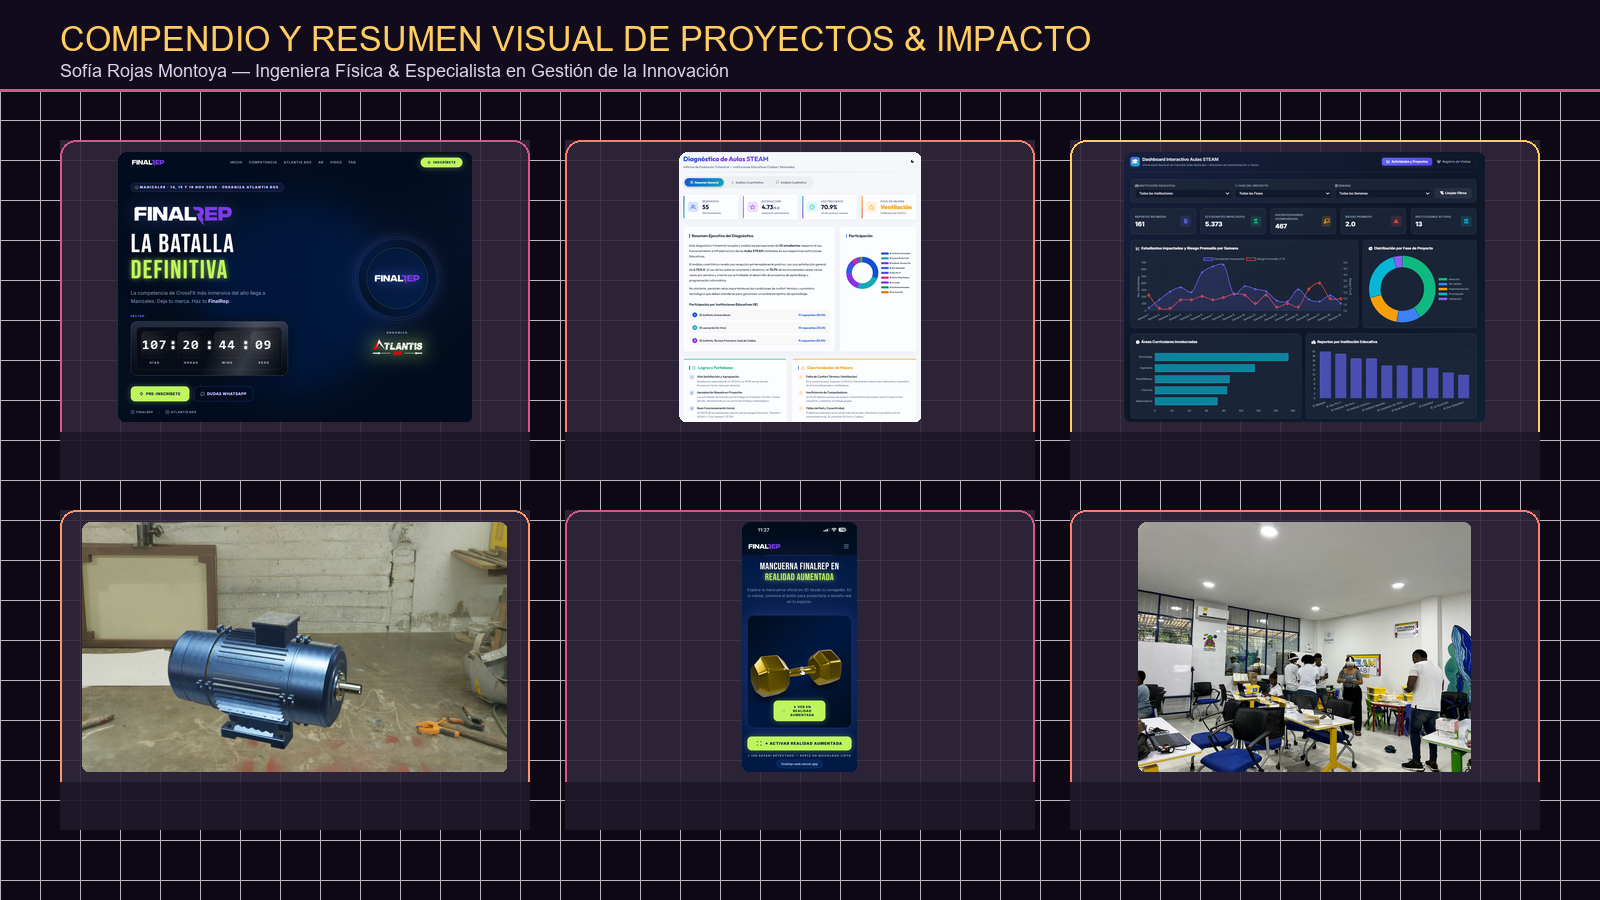
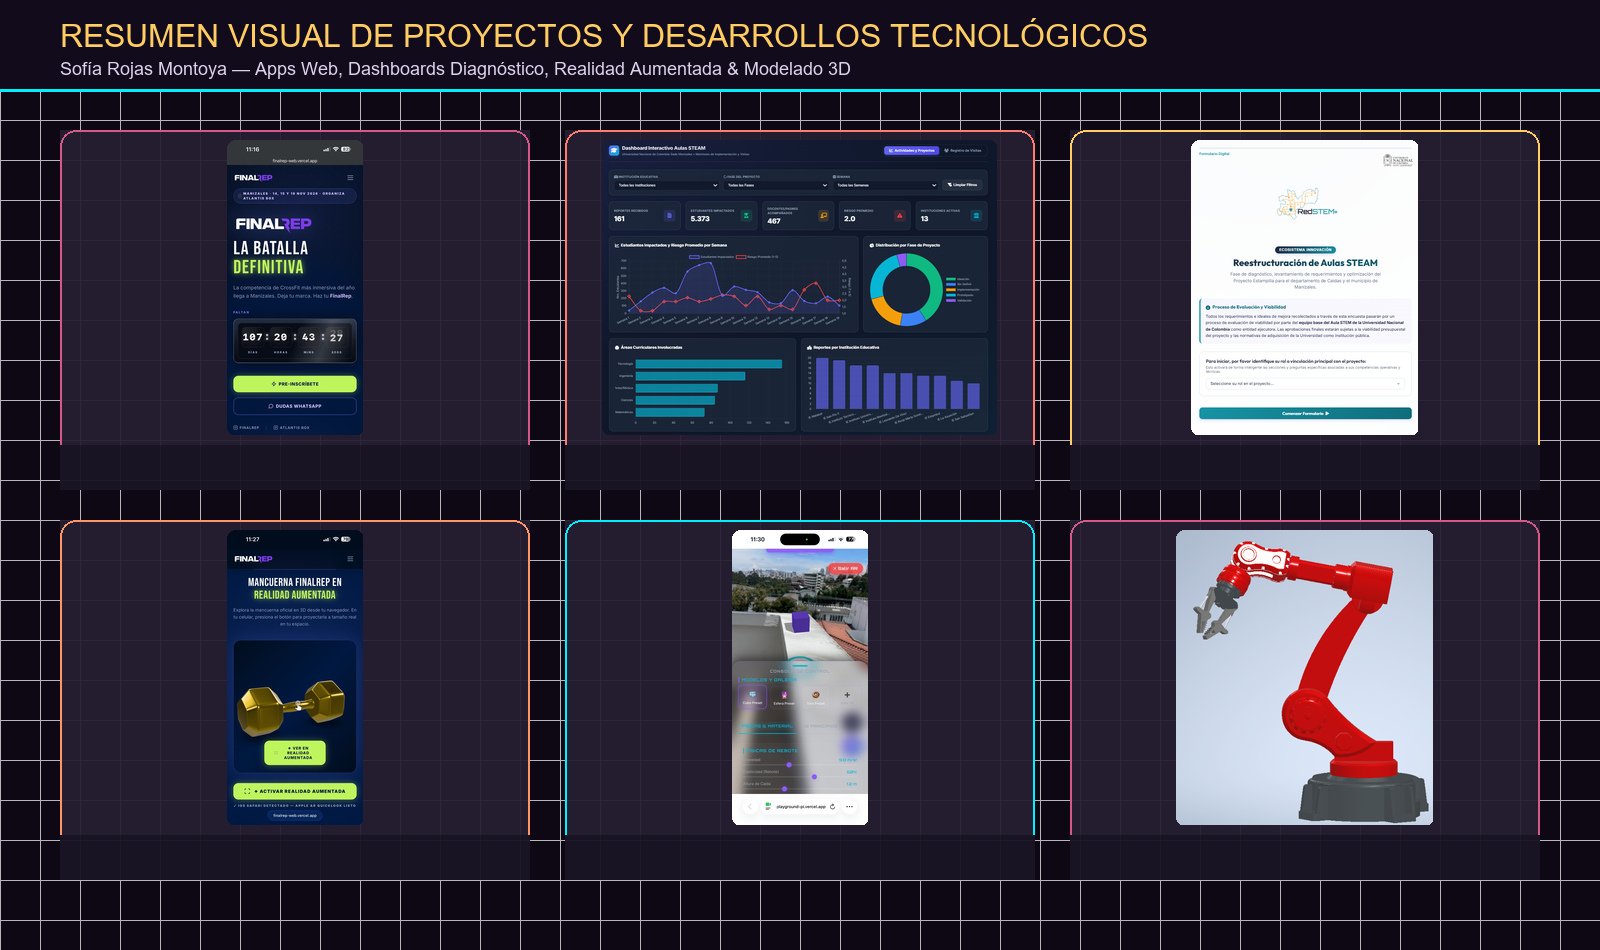
Update portfolio projects with exact user context, image mappings, and regenerated executive summary graphic

diff --git a/index.html b/index.html
@@ -726,6 +726,7 @@
     
     <!-- Personal Projects Portfolio Section (Game Dev Studio 04 Style) -->
         <!-- Personal Projects Portfolio Section (Alien UFO Spaceship Hologram Emitter) -->
+        <!-- Personal Projects Portfolio Section (Alien UFO Spaceship Projector) -->
     <section id="proyectos-personales" class="section-padding ufo-portfolio-section">
       <div class="container">
         <!-- Section Header -->
@@ -733,7 +734,7 @@
           <span class="ufo-section-tag"><i data-lucide="orbit"></i> DESARROLLOS Y PROYECTOS 3D</span>
           <h2 class="section-title ufo-title">PORTAFOLIO DE PROYECTOS</h2>
           <p style="color: var(--text-secondary); max-width: 750px; margin: 12px auto 0 auto; font-size: 0.98rem;">
-            Soluciones tecnológicas avanzadas, aplicaciones web interactivas, simuladores 3D/AR y sistemas analíticos proyectados en alta resolución.
+            Soluciones tecnológicas avanzadas, aplicaciones web interactivas, plataformas de realidad aumentada y sistemas de modelado 3D proyectados en detalle.
           </p>
           <div class="section-divider"></div>
         </div>
@@ -768,175 +769,175 @@
         <div class="portfolio-filters ufo-filters" style="margin-bottom: 45px;">
           <button class="filter-btn active" data-project-filter="all">_TODOS LOS PROYECTOS</button>
           <button class="filter-btn" data-project-filter="webapp">_APLICACIONES WEB</button>
-          <button class="filter-btn" data-project-filter="simulacion">_SIMULADORES 3D / AR</button>
+          <button class="filter-btn" data-project-filter="simulacion">_REALIDAD AUMENTADA Y 3D</button>
           <button class="filter-btn" data-project-filter="analitica">_DASHBOARDS Y DATOS</button>
         </div>
 
         <!-- Hologram Projects Grid (2-Column Layout) -->
         <div class="hologram-projects-grid">
           
-          <!-- Card 1: FinalRep Fitness App -->
+          <!-- Proyecto 1: App Web FinalRep (Competencia CrossFit) -->
           <div class="hologram-project-card" data-project-cat="webapp">
             <div class="hologram-media-frame">
               <span class="hologram-hud-tag">PROYECTO _01</span>
-              <img src="Aplicaciones WEB/FinalRep_1.png" alt="FinalRep Web App" class="hologram-img" id="holo-img-1">
+              <img src="Aplicaciones WEB/FinalRep Celular.jpeg" alt="App Web FinalRep - Competencia CrossFit" class="hologram-img" id="holo-img-1">
               <div class="hologram-scanlines"></div>
             </div>
 
             <!-- Thumbnail Device Switcher -->
             <div class="hologram-thumb-switcher">
-              <button class="holo-thumb-btn active" onclick="switchHoloImg('holo-img-1', 'Aplicaciones WEB/FinalRep_1.png', this)">PC ESCRITORIO</button>
-              <button class="holo-thumb-btn" onclick="switchHoloImg('holo-img-1', 'Aplicaciones WEB/FinalRep Celular.jpeg', this)">CELULAR MÓVIL</button>
-              <button class="holo-thumb-btn" onclick="switchHoloImg('holo-img-1', 'Aplicaciones WEB/FinalRep_2.png', this)">ANALÍTICA IA</button>
+              <button class="holo-thumb-btn active" onclick="switchHoloImg('holo-img-1', 'Aplicaciones WEB/FinalRep Celular.jpeg', this)">FINALREP MÓVIL</button>
+              <button class="holo-thumb-btn" onclick="switchHoloImg('holo-img-1', 'Aplicaciones WEB/FinalRep_1.png', this)">PANEL WEB 1</button>
+              <button class="holo-thumb-btn" onclick="switchHoloImg('holo-img-1', 'Aplicaciones WEB/FinalRep_2.png', this)">PANEL WEB 2</button>
             </div>
 
             <div class="hologram-card-body">
-              <h3 class="hologram-card-title">FinalRep — Platform Fitness & AI</h3>
+              <h3 class="hologram-card-title">Proyecto App Web FinalRep</h3>
               <p class="hologram-card-desc">
-                Plataforma interactiva de seguimiento de ejercicios en tiempo real, rutinas guiadas, contador inteligente de repeticiones y paneles gráficos de progreso físico.
+                Aplicación web desarrollada para promocionar una competencia de CrossFit y realizar el llamado a la inscripción de atletas y participantes con seguimiento de rendimiento en tiempo real.
               </p>
               <div class="hologram-tech-stack">
-                <span class="holo-tech-chip">JavaScript ES6+</span>
-                <span class="holo-tech-chip">PWA</span>
-                <span class="holo-tech-chip">Chart.js</span>
-                <span class="holo-tech-chip">Glassmorphism</span>
+                <span class="holo-tech-chip">Competencia CrossFit</span>
+                <span class="holo-tech-chip">Llamado Inscripción</span>
+                <span class="holo-tech-chip">App Web Interactiva</span>
+                <span class="holo-tech-chip">PWA & JS</span>
               </div>
             </div>
           </div>
 
-          <!-- Card 2: Dashboard Diagnóstico -->
+          <!-- Proyecto 2: Dashboards Interactivos -->
           <div class="hologram-project-card" data-project-cat="analitica">
             <div class="hologram-media-frame">
               <span class="hologram-hud-tag">PROYECTO _02</span>
-              <img src="Aplicaciones WEB/Dashbboard Diagnostico.png" alt="Dashboard Diagnóstico" class="hologram-img" id="holo-img-2">
+              <img src="Aplicaciones WEB/Dashboard Aulas.png" alt="Dashboards Interactivos de Diagnóstico" class="hologram-img" id="holo-img-2">
               <div class="hologram-scanlines"></div>
             </div>
 
             <div class="hologram-thumb-switcher">
-              <button class="holo-thumb-btn active" onclick="switchHoloImg('holo-img-2', 'Aplicaciones WEB/Dashbboard Diagnostico.png', this)">PANEL DATOS</button>
-              <button class="holo-thumb-btn" onclick="switchHoloImg('holo-img-2', 'Aplicaciones WEB/Formulario interactivo.png', this)">FORMULARIO</button>
+              <button class="holo-thumb-btn active" onclick="switchHoloImg('holo-img-2', 'Aplicaciones WEB/Dashboard Aulas.png', this)">DASHBOARD AULAS</button>
+              <button class="holo-thumb-btn" onclick="switchHoloImg('holo-img-2', 'Aplicaciones WEB/Dashbboard Diagnostico.png', this)">DASHBOARD DIAGNÓSTICO</button>
             </div>
 
             <div class="hologram-card-body">
-              <h3 class="hologram-card-title">Dashboard Diagnóstico de Territorio</h3>
+              <h3 class="hologram-card-title">Dashboards Interactivos y Dinámicos</h3>
               <p class="hologram-card-desc">
-                Sistema de inteligencia de negocios y analítica visual para la evaluación de necesidades tecnológicas, brechas educativas y toma de decisiones en 15 municipios.
+                Dashboards interactivos y dinámicos realizados a partir de la recolección de información como diagnóstico integral de proyectos tecnológicos y educativos.
               </p>
               <div class="hologram-tech-stack">
-                <span class="holo-tech-chip">Python</span>
-                <span class="holo-tech-chip">Pandas</span>
-                <span class="holo-tech-chip">Data Visualization</span>
-                <span class="holo-tech-chip">FastAPI</span>
+                <span class="holo-tech-chip">Analítica Interactiva</span>
+                <span class="holo-tech-chip">Diagnóstico Proyectos</span>
+                <span class="holo-tech-chip">Visualización Datos</span>
+                <span class="holo-tech-chip">Python & Data</span>
               </div>
             </div>
           </div>
 
-          <!-- Card 3: Dashboard Aulas STEAM -->
-          <div class="hologram-project-card" data-project-cat="analitica">
+          <!-- Proyecto 3: Formulario Interactivo Web -->
+          <div class="hologram-project-card" data-project-cat="webapp">
             <div class="hologram-media-frame">
               <span class="hologram-hud-tag">PROYECTO _03</span>
-              <img src="Aplicaciones WEB/Dashboard Aulas.png" alt="Dashboard Aulas STEAM" class="hologram-img" id="holo-img-3">
+              <img src="Aplicaciones WEB/Formulario interactivo.png" alt="Formulario Interactivo Web" class="hologram-img" id="holo-img-3">
               <div class="hologram-scanlines"></div>
             </div>
 
             <div class="hologram-thumb-switcher">
-              <button class="holo-thumb-btn active" onclick="switchHoloImg('holo-img-3', 'Aplicaciones WEB/Dashboard Aulas.png', this)">MONITOREO</button>
-              <button class="holo-thumb-btn" onclick="switchHoloImg('holo-img-3', 'Aplicaciones WEB/Formulario interactivo.png', this)">INVENTARIO</button>
+              <button class="holo-thumb-btn active" onclick="switchHoloImg('holo-img-3', 'Aplicaciones WEB/Formulario interactivo.png', this)">FORMULARIO INTERACTIVO</button>
             </div>
 
             <div class="hologram-card-body">
-              <h3 class="hologram-card-title">Monitoreo Aulas STEAM Manizales</h3>
+              <h3 class="hologram-card-title">Formulario Web Interactivo</h3>
               <p class="hologram-card-desc">
-                Plataforma de seguimiento en tiempo real para el control de inventario de equipos 3D, capacitaciones docentes y adopción tecnológica escolar.
+                Formulario interactivo desarrollado con el fin de que cualquier persona lo pueda diligenciar de manera web directa, sin necesidad de relacionar un correo de una plataforma específica.
               </p>
               <div class="hologram-tech-stack">
-                <span class="holo-tech-chip">React / Vanilla JS</span>
-                <span class="holo-tech-chip">Chart.js</span>
-                <span class="holo-tech-chip">REST APIs</span>
-                <span class="holo-tech-chip">CSS Grid</span>
+                <span class="holo-tech-chip">Diligenciamiento Web</span>
+                <span class="holo-tech-chip">Acceso Universal</span>
+                <span class="holo-tech-chip">UI Interactivas</span>
+                <span class="holo-tech-chip">Sin Login Obligatorio</span>
               </div>
             </div>
           </div>
 
-          <!-- Card 4: Motor Render 3D -->
+          <!-- Proyecto 4: Aplicativos con Realidad Aumentada (Mancuerna AR) -->
           <div class="hologram-project-card" data-project-cat="simulacion">
             <div class="hologram-media-frame">
               <span class="hologram-hud-tag">PROYECTO _04</span>
-              <img src="Aplicaciones WEB/Motor Render.png" alt="Motor Render 3D" class="hologram-img" id="holo-img-4">
+              <img src="Aplicaciones WEB/Mancuerna AR.jpeg" alt="Plataformas Web Informativas con Mancuerna AR" class="hologram-img" id="holo-img-4">
               <div class="hologram-scanlines"></div>
             </div>
 
             <div class="hologram-thumb-switcher">
-              <button class="holo-thumb-btn active" onclick="switchHoloImg('holo-img-4', 'Aplicaciones WEB/Motor Render.png', this)">ENGINE 3D</button>
-              <button class="holo-thumb-btn" onclick="switchHoloImg('holo-img-4', 'Aplicaciones WEB/Motor Render_2.png', this)">VISTA SHADER</button>
-              <button class="holo-thumb-btn" onclick="switchHoloImg('holo-img-4', 'Aplicaciones WEB/Motor Render_3.png', this)">VISTA MESH</button>
+              <button class="holo-thumb-btn active" onclick="switchHoloImg('holo-img-4', 'Aplicaciones WEB/Mancuerna AR.jpeg', this)">MANCUERNA AR 1</button>
+              <button class="holo-thumb-btn" onclick="switchHoloImg('holo-img-4', 'Aplicaciones WEB/Mancuerna AR_2.jpeg', this)">MANCUERNA AR 2</button>
             </div>
 
             <div class="hologram-card-body">
-              <h3 class="hologram-card-title">Motor de Render & Simulador 3D</h3>
+              <h3 class="hologram-card-title">Plataformas Web con Realidad Aumentada</h3>
               <p class="hologram-card-desc">
-                Entorno interactivo WebGL para la simulación física, inspección de piezas tridimensionales, materiales fotorrealistas e iluminación dinámica.
+                Aplicativos ligados a plataformas web informativas donde se hace uso de la realidad aumentada para darle un plus y personalización a algún elemento representativo, en este caso, una mancuerna.
               </p>
               <div class="hologram-tech-stack">
-                <span class="holo-tech-chip">Three.js</span>
-                <span class="holo-tech-chip">WebGL</span>
-                <span class="holo-tech-chip">GLTF/OBJ</span>
-                <span class="holo-tech-chip">Shaders PBR</span>
+                <span class="holo-tech-chip">Realidad Aumentada</span>
+                <span class="holo-tech-chip">Plus Interactivo</span>
+                <span class="holo-tech-chip">Mancuerna AR 3D</span>
+                <span class="holo-tech-chip">WebXR / Three.js</span>
               </div>
             </div>
           </div>
 
-          <!-- Card 5: Simulador Físico AR -->
+          <!-- Proyecto 5: APP con Realidad Aumentada (Espacio y Target Scanning) -->
           <div class="hologram-project-card" data-project-cat="simulacion">
             <div class="hologram-media-frame">
               <span class="hologram-hud-tag">PROYECTO _05</span>
-              <img src="Aplicaciones WEB/Fisicas AR.jpeg" alt="Físicas AR" class="hologram-img" id="holo-img-5">
+              <img src="Aplicaciones WEB/Fisicas AR.jpeg" alt="APP con Realidad Aumentada (Espacio y Target)" class="hologram-img" id="holo-img-5">
               <div class="hologram-scanlines"></div>
             </div>
 
             <div class="hologram-thumb-switcher">
-              <button class="holo-thumb-btn active" onclick="switchHoloImg('holo-img-5', 'Aplicaciones WEB/Fisicas AR.jpeg', this)">AR LAB</button>
-              <button class="holo-thumb-btn" onclick="switchHoloImg('holo-img-5', 'Aplicaciones WEB/Mancuerna AR.jpeg', this)">VISOR 3D</button>
+              <button class="holo-thumb-btn active" onclick="switchHoloImg('holo-img-5', 'Aplicaciones WEB/Fisicas AR.jpeg', this)">FÍSICAS AR (ESPACIO)</button>
+              <button class="holo-thumb-btn" onclick="switchHoloImg('holo-img-5', 'Aplicaciones WEB/AR CENTRO.jpeg', this)">AR CENTRO (TARGET LOGO)</button>
             </div>
 
             <div class="hologram-card-body">
-              <h3 class="hologram-card-title">Simulador Físico en Realidad Aumentada</h3>
+              <h3 class="hologram-card-title">APP con Realidad Aumentada (Espacio & Target)</h3>
               <p class="hologram-card-desc">
-                Aplicación WebXR que proyecta experimentos de física y modelos 3D interactivos en el espacio real para laboratorios de enseñanza activa.
+                Aplicativos de Realidad Aumentada por escaneo del espacio libre (para visualización de físicas y animación 3D) y por escaneo de un target/logotipo para obtener información interactiva.
               </p>
               <div class="hologram-tech-stack">
-                <span class="holo-tech-chip">WebXR API</span>
-                <span class="holo-tech-chip">AR.js</span>
-                <span class="holo-tech-chip">Three.js</span>
-                <span class="holo-tech-chip">Sensores Móviles</span>
+                <span class="holo-tech-chip">Escaneo Espacial</span>
+                <span class="holo-tech-chip">Target Logotipo AR</span>
+                <span class="holo-tech-chip">Físicas & Animación 3D</span>
+                <span class="holo-tech-chip">AR CENTRO</span>
               </div>
             </div>
           </div>
 
-          <!-- Card 6: Brazo Robótico & Patente UV -->
+          <!-- Proyecto 6: Diseño y Modelado 3D -->
           <div class="hologram-project-card" data-project-cat="simulacion">
             <div class="hologram-media-frame">
               <span class="hologram-hud-tag">PROYECTO _06</span>
-              <img src="Aplicaciones WEB/Brazo Robotico_1.png" alt="Brazo Robótico UV" class="hologram-img" id="holo-img-6">
+              <img src="Aplicaciones WEB/Motor Render_2.png" alt="Diseño y Modelado 3D para AR/VR" class="hologram-img" id="holo-img-6">
               <div class="hologram-scanlines"></div>
             </div>
 
             <div class="hologram-thumb-switcher">
-              <button class="holo-thumb-btn active" onclick="switchHoloImg('holo-img-6', 'Aplicaciones WEB/Brazo Robotico_1.png', this)">DISEÑO CAD 3D</button>
-              <button class="holo-thumb-btn" onclick="switchHoloImg('holo-img-6', 'Aplicaciones WEB/Brazo Robotico_2.png', this)">ENSAMBLE</button>
-              <button class="holo-thumb-btn" onclick="switchHoloImg('holo-img-6', 'Evidencia3.jpg', this)">PROTOTIPO REAL</button>
+              <button class="holo-thumb-btn active" onclick="switchHoloImg('holo-img-6', 'Aplicaciones WEB/Motor Render_2.png', this)">RENDER 3D 1</button>
+              <button class="holo-thumb-btn" onclick="switchHoloImg('holo-img-6', 'Aplicaciones WEB/Motor Render_3.png', this)">RENDER 3D 2</button>
+              <button class="holo-thumb-btn" onclick="switchHoloImg('holo-img-6', 'Aplicaciones WEB/Motor 3D.png', this)">MOTOR 3D</button>
+              <button class="holo-thumb-btn" onclick="switchHoloImg('holo-img-6', 'Aplicaciones WEB/Brazo Robotico_1.png', this)">ROBOT 1</button>
+              <button class="holo-thumb-btn" onclick="switchHoloImg('holo-img-6', 'Aplicaciones WEB/Brazo Robotico_2.png', this)">ROBOT 2</button>
             </div>
 
             <div class="hologram-card-body">
-              <h3 class="hologram-card-title">Prototipo Robótico & Patente UV</h3>
+              <h3 class="hologram-card-title">Diseño y Modelado 3D</h3>
               <p class="hologram-card-desc">
-                Modelado y prototipado 3D de alta precisión para el desarrollo del robot de desinfección UV COVID-19 con patente de invención solicitada.
+                Diseño y modelado 3D de artefactos tridimensionales como evidencia técnica para ser integrados en escenarios AR/VR, animaciones y simuladores interactivos.
               </p>
               <div class="hologram-tech-stack">
-                <span class="holo-tech-chip">SolidWorks</span>
-                <span class="holo-tech-chip">Impresión 3D</span>
-                <span class="holo-tech-chip">Electrónica IoT</span>
-                <span class="holo-tech-chip">Patente UV</span>
+                <span class="holo-tech-chip">Modelado Artefactos 3D</span>
+                <span class="holo-tech-chip">Escenarios AR / VR</span>
+                <span class="holo-tech-chip">Animación 3D</span>
+                <span class="holo-tech-chip">Renderizado PBR</span>
               </div>
             </div>
           </div>
@@ -944,6 +945,7 @@
         </div>
       </div>
     </section>
+
 
 
   </main>
